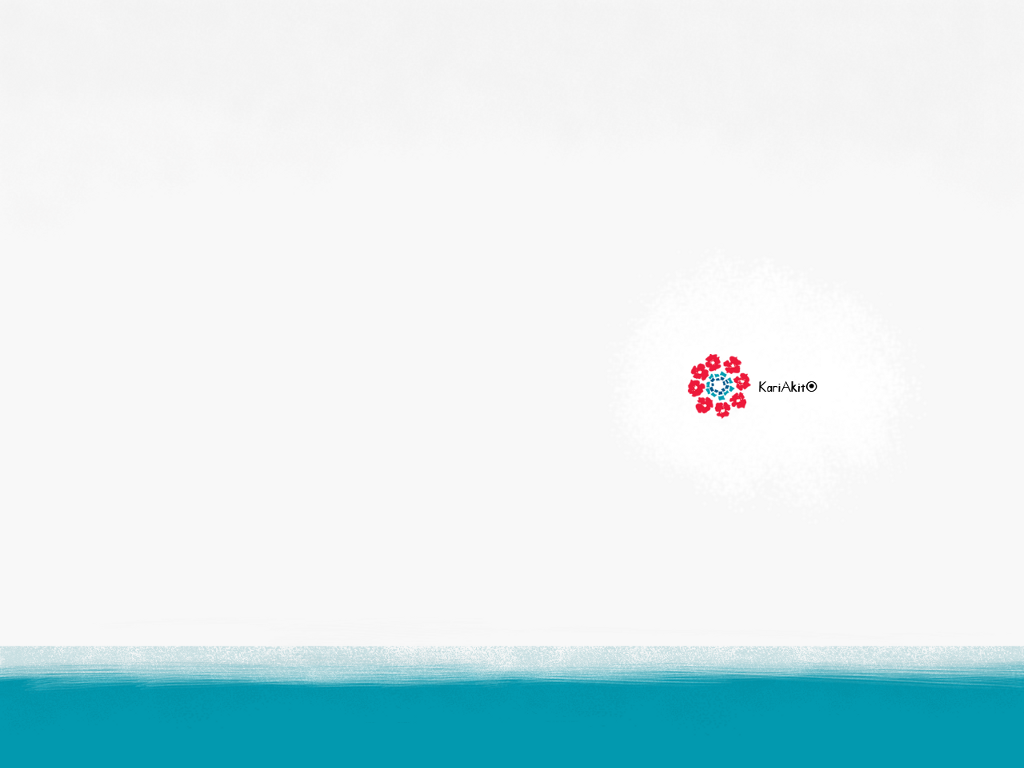
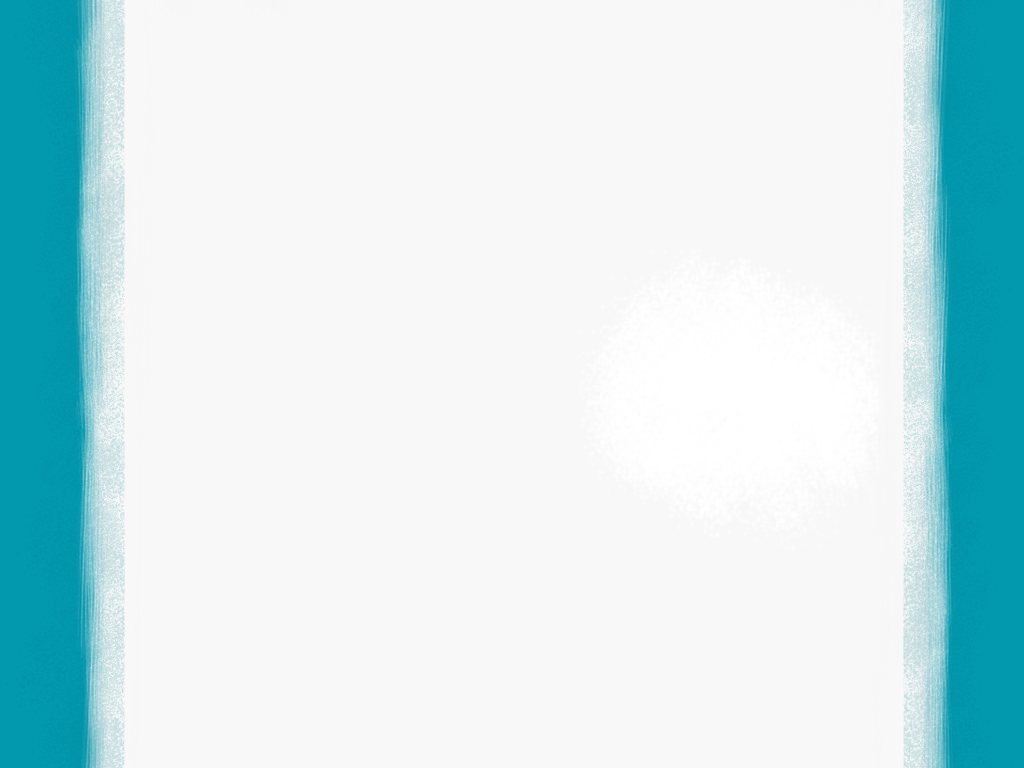
Added new design

diff --git a/public/stylesheets/custom.css b/public/stylesheets/custom.css
@@ -2,6 +2,8 @@
   width: 1024px;
   height: 768px;
   background-image: url(../images/background.png);
+  background-repeat:no-repeat;
+  /*background-attachment:fixed;*/
 }
 
 tbody tr:nth-child(even) td, tbody tr.even td {background:none;}
@@ -15,8 +17,8 @@ tbody tr:nth-child(even) td, tbody tr.even td {background:none;}
 }
 
 body {
-  background: #f7f7f7;
-  background-image: url(../images/backrightpixel.png), url(../images/backleftpixel.png);
+  background: #0299af;
+  /*background-image: url(../images/backrightpixel.png), url(../images/backleftpixel.png);*/
   background-repeat: repeat-x;
   background-position: top left, top right;
 }
